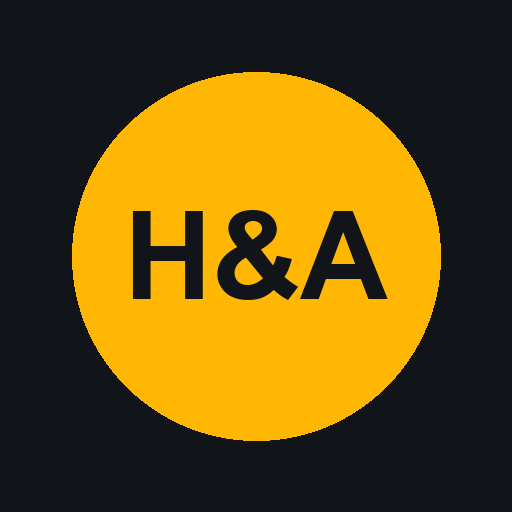
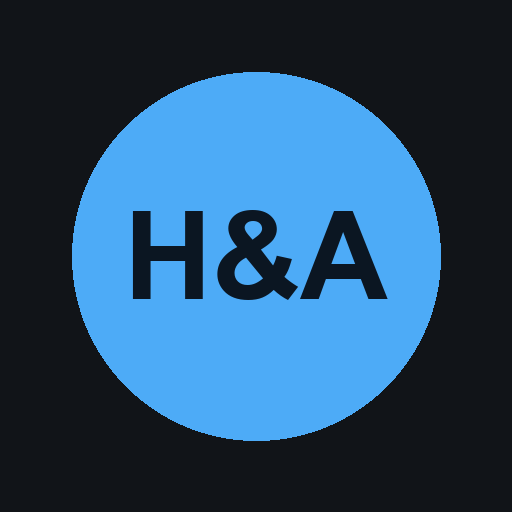
Loading indicators; blue theme

diff --git a/app.js b/app.js
@@ -110,6 +110,12 @@ function el(tag, props = {}, ...children) {
   return node;
 }
 
+// Status line text; `loading` adds a spinner in front of it.
+function setStatus(node, text, loading = false) {
+  node.textContent = text;
+  node.classList.toggle("loading", loading && Boolean(text));
+}
+
 // ---------- episode list ----------
 
 function toEpisode(r) {
@@ -132,7 +138,8 @@ async function loadEpisodes() {
     episodes = JSON.parse(cached).map((e) => ({ ...e, date: new Date(e.date) }));
     renderList();
   }
-  status.textContent = episodes.length ? "" : "Loading episodes…";
+  setStatus(status, episodes.length ? "" : "Loading episodes…", true);
+  $("refresh").classList.add("spinning");
   try {
     const resp = await fetch(LOOKUP_URL);
     if (!resp.ok) throw new Error(`HTTP ${resp.status}`);
@@ -142,12 +149,14 @@ async function loadEpisodes() {
       .map(toEpisode)
       .sort((a, b) => b.date - a.date);
     localStorage.setItem("episodes", JSON.stringify(episodes));
-    status.textContent = "";
+    setStatus(status, "");
     renderList();
   } catch (err) {
-    status.textContent = episodes.length
+    setStatus(status, episodes.length
       ? `Couldn't refresh (${err.message}). Showing saved list.`
-      : `Couldn't load episodes (${err.message}).`;
+      : `Couldn't load episodes (${err.message}).`);
+  } finally {
+    $("refresh").classList.remove("spinning");
   }
 }
 
@@ -207,6 +216,8 @@ function openEpisode(ep) {
   seek.value = 0;
   updateTimes();
   updateDoneButton();
+  updateLoading();
+  setBusy(false);
   setupMediaSession();
   loadChapters(ep);
 }
@@ -215,7 +226,7 @@ async function loadChapters(ep) {
   if (chapterAbort) chapterAbort.abort();
   chapterAbort = new AbortController();
   const signal = chapterAbort.signal;
-  $("chapter-status").textContent = "Loading chapters…";
+  setStatus($("chapter-status"), "Loading chapters…", true);
   try {
     const info = await ID3.readChapters(ep.url, signal);
     if (current !== ep) return;
@@ -225,10 +236,10 @@ async function loadChapters(ep) {
       ...c,
       title: i === 0 && (c.title === ep.title || !c.title) ? "Intro" : c.title || `Chapter ${i + 1}`,
     }));
-    $("chapter-status").textContent = chapters.length ? "" : "No chapters in this episode.";
+    setStatus($("chapter-status"), chapters.length ? "" : "No chapters in this episode.");
   } catch (err) {
     if (err.name === "AbortError") return;
-    $("chapter-status").textContent = `Couldn't load chapters (${err.message}).`;
+    setStatus($("chapter-status"), `Couldn't load chapters (${err.message}).`);
   }
   renderChapters();
   detectAds(ep, signal);
@@ -258,6 +269,22 @@ async function detectAds(ep, signal) {
   applyResume();
   renderTrack();
   syncUi();
+  updateLoading();
+  // If playback started before detection finished and is inside an ad, skip it now.
+  if (resumeAt === null && adAt(audio.currentTime)) seekTo(audio.currentTime);
+}
+
+// The seek bar shows a loading placeholder until the audio length and ad map are known.
+function updateLoading(failed = false) {
+  const loading = Boolean(current) && !failed && !(fileDuration() && adsSettled);
+  $("seek-wrap").classList.toggle("loading", loading);
+  $("seek-wrap").setAttribute("aria-busy", String(loading));
+}
+
+// Spinner on the play button while audio is buffering.
+function setBusy(busy) {
+  $("play").classList.toggle("busy", busy);
+  $("play").setAttribute("aria-busy", String(busy));
 }
 
 // Seek to the saved position once metadata and the ad map are ready.
@@ -463,7 +490,8 @@ function setupMediaSession() {
 
 function play() {
   applyResume(true); // don't wait for ad detection if the user is ready to listen
-  return audio.play();
+  if (audio.readyState < 3) setBusy(true);
+  return audio.play().catch(() => setBusy(false));
 }
 
 $("play").addEventListener("click", () => (audio.paused ? play() : audio.pause()));
@@ -490,6 +518,7 @@ audio.addEventListener("loadedmetadata", () => {
   renderTrack();
   applyResume();
   syncUi();
+  updateLoading();
 });
 audio.addEventListener("timeupdate", () => {
   // Auto-skip ads (only known on episodes whose ads could be detected; see ads.js).
@@ -498,10 +527,14 @@ audio.addEventListener("timeupdate", () => {
   if (Math.abs(audio.currentTime - lastSaved) >= SAVE_EVERY_SECONDS) savePos();
 });
 audio.addEventListener("play", () => { updatePlayButton(); updatePositionState(); });
-audio.addEventListener("pause", () => { updatePlayButton(); savePos(); });
-audio.addEventListener("ended", () => { updatePlayButton(); savePos(); setDone(current.guid, true); });
+audio.addEventListener("pause", () => { setBusy(false); updatePlayButton(); savePos(); });
+audio.addEventListener("waiting", () => { if (!audio.paused) setBusy(true); });
+audio.addEventListener("playing", () => setBusy(false));
+audio.addEventListener("ended", () => { setBusy(false); updatePlayButton(); savePos(); setDone(current.guid, true); });
 audio.addEventListener("error", () => {
-  $("chapter-status").textContent = "Couldn't play this episode. Check your connection and try again.";
+  setBusy(false);
+  updateLoading(true);
+  setStatus($("chapter-status"), "Couldn't play this episode. Check your connection and try again.");
 });
 
 // Keyboard shortcuts (handy on desktop): space = play/pause, arrows = ±10s.

diff --git a/style.css b/style.css
@@ -3,8 +3,8 @@
   --panel: #1b2027;
   --text: #eef1f4;
   --muted: #9aa4b0;
-  --accent: #ffb703;
-  --accent-text: #111418;
+  --accent: #4dabf7;
+  --accent-text: #0b1622;
   color-scheme: dark;
 }
 
@@ -309,3 +309,64 @@ body:not(.locked) .gate { display: none; }
 }
 
 .sync-actions button.primary { background: var(--accent); color: var(--accent-text); font-weight: 700; }
+
+/* Loading indicators */
+@keyframes spin { to { transform: rotate(360deg); } }
+@keyframes shimmer { from { background-position: 200% 0; } to { background-position: -200% 0; } }
+
+.status.loading::before {
+  content: "";
+  display: inline-block;
+  width: 0.9em;
+  height: 0.9em;
+  margin-right: 0.5em;
+  vertical-align: -0.12em;
+  border: 2px solid currentColor;
+  border-right-color: transparent;
+  border-radius: 50%;
+  animation: spin 0.8s linear infinite;
+}
+
+.icon-btn.spinning { animation: spin 0.8s linear infinite; }
+
+/* Seek bar placeholder while the audio length and ad map load */
+.seek.loading .seg { visibility: hidden; }
+.seek.loading .seek-track {
+  border-radius: 3px;
+  background: linear-gradient(90deg, #2a3038 25%, #4b5563 50%, #2a3038 75%) 0 0 / 200% 100%;
+  animation: shimmer 1.4s linear infinite;
+}
+.seek.loading #time-dur::before {
+  content: "";
+  display: inline-block;
+  width: 0.8em;
+  height: 0.8em;
+  margin-right: 0.4em;
+  vertical-align: -0.1em;
+  border: 2px solid currentColor;
+  border-right-color: transparent;
+  border-radius: 50%;
+  animation: spin 0.8s linear infinite;
+}
+
+/* Play button while buffering */
+.ctrl.play { position: relative; }
+.ctrl.play.busy { color: transparent; }
+.ctrl.play.busy::after {
+  content: "";
+  position: absolute;
+  inset: 0;
+  width: 30px;
+  height: 30px;
+  margin: auto;
+  border: 3px solid var(--accent-text);
+  border-right-color: transparent;
+  border-radius: 50%;
+  animation: spin 0.8s linear infinite;
+}
+
+@media (prefers-reduced-motion: reduce) {
+  .status.loading::before, .icon-btn.spinning, .seek.loading #time-dur::before,
+  .ctrl.play.busy::after { animation-duration: 2.5s; }
+  .seek.loading .seek-track { animation: none; }
+}

diff --git a/index.html b/index.html
@@ -41,7 +41,7 @@
     <section class="player" aria-label="Player">
       <p id="current-chapter" class="current-chapter" aria-live="polite"></p>
 
-      <div class="seek">
+      <div id="seek-wrap" class="seek">
         <div class="seek-bar">
           <div id="seek-track" class="seek-track" aria-hidden="true"></div>
           <input id="seek" type="range" min="0" max="0" step="1" value="0" aria-label="Seek">
